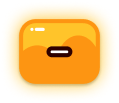
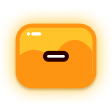
Fixed mint,premint,connect buttons / Added spinner

Changed region(s): [[0.1071, 0.1165, 0.9107, 0.7573], [0.1875, 0.7573, 0.8036, 0.8738], [0.3214, 0.3495, 0.7232, 0.5825]]

diff --git a/src/Pages/MintPage/MintPage.js b/src/Pages/MintPage/MintPage.js
@@ -8,11 +8,17 @@ import xJSON from "../../whitelist/merkleproof-cookieX.json";
 import bg_mint from "../../assets/images/mint_bg_macbook.jpg";
 import meow_profile from "../../assets/images/meowprofile.png";
 import decrementButton from "../../assets/images/minus_normal.png";
+import decrementButtonHover from "../../assets/images/minus_hover.png";
 import incrementButton from "../../assets/images/plus_normal.png";
 import incrementButtonHover from "../../assets/images/plus_hover.png";
 import mintButton from "../../assets/images/mint_normal.png";
+import mintButtonHover from "../../assets/images/mint_hover.png";
+import connectButton from "../../assets/images/connect_normal.png";
+import connectButtonHover from "../../assets/images/connect_hover.png";
+
 import Nav from "../../components/layout/Nav";
 import classes from "../../assets/styles/mintpage.module.css";
+import Spinner from "../../components/Spinner";
 
 const truncate = (input, len) =>
   input.length > len ? `${input.substring(0, len)}...` : input;
@@ -262,15 +268,30 @@ const MintPage = () => {
                   </s.TextDescription>
                   <s.SpacerSmall />
 
-                  <img
-                    src={mintButton}
-                    alt="connectButton"
-                    onClick={(e) => {
-                      e.preventDefault();
-                      dispatch(connect());
-                      getData();
-                    }}
-                  />
+                  <div className={classes.buttonBox}>
+                    <div className={classes.button}>
+                      <img
+                        src={connectButton}
+                        alt="connectButton"
+                        onClick={(e) => {
+                          e.preventDefault();
+                          dispatch(connect());
+                          getData();
+                        }}
+                      />
+                    </div>
+                    <div className={classes.buttonHover}>
+                      <img
+                        src={connectButtonHover}
+                        alt="connectButtonHover"
+                        onClick={(e) => {
+                          e.preventDefault();
+                          dispatch(connect());
+                          getData();
+                        }}
+                      />
+                    </div>
+                  </div>
 
                   {blockchain.errorMsg !== "" ? (
                     <>
@@ -296,15 +317,32 @@ const MintPage = () => {
                   </s.TextDescription>
                   <s.SpacerMedium />
                   <s.Container ai={"center"} jc={"center"} fd={"row"}>
-                    <img
-                      src={decrementButton}
-                      alt="decrementButton"
-                      disabled={claimingNft ? 1 : 0}
-                      onClick={(e) => {
-                        e.preventDefault();
-                        decrementMintAmount();
-                      }}
-                    />
+                    <div className={classes.buttonBox}>
+                      <div className={classes.button}>
+                        <img
+                          src={decrementButton}
+                          alt="decrementButton"
+                          disabled={claimingNft ? 1 : 0}
+                          onClick={(e) => {
+                            e.preventDefault();
+                            decrementMintAmount();
+                          }}
+                        />
+                      </div>
+                      <div className={classes.buttonHover}>
+                        <img
+                          // style={{ height: "87px", width: "74px" }}
+                          src={decrementButtonHover}
+                          alt="decrementButtonHover"
+                          disabled={claimingNft ? 1 : 0}
+                          onClick={(e) => {
+                            e.preventDefault();
+                            decrementMintAmount();
+                          }}
+                        />
+                      </div>
+                    </div>
+
                     <s.SpacerMedium />
                     <s.TextDescriptionMintAmount
                       style={{
@@ -314,8 +352,8 @@ const MintPage = () => {
                       {mintAmount}
                     </s.TextDescriptionMintAmount>
                     <s.SpacerMedium />
-                    <div className={classes.incrementBox}>
-                      <div className={classes.increment}>
+                    <div className={classes.buttonBox}>
+                      <div className={classes.button}>
                         <img
                           // style={{ height: "87px", width: "74px" }}
                           src={incrementButton}
@@ -327,27 +365,48 @@ const MintPage = () => {
                           }}
                         />
                       </div>
-                      <div className={classes.incrementHover}>
+                      <div className={classes.buttonHover}>
                         <img
                           // style={{ height: "87px", width: "74px" }}
                           src={incrementButtonHover}
                           alt="incrementButtonHover"
+                          disabled={claimingNft ? 1 : 0}
+                          onClick={(e) => {
+                            e.preventDefault();
+                            incrementMintAmount();
+                          }}
                         />
                       </div>
                     </div>
                     {!claimingNft ? (
-                      <img
-                        src={mintButton}
-                        alt="mintButton"
-                        disabled={claimingNft ? 1 : 0}
-                        onClick={(e) => {
-                          e.preventDefault();
-                          publicMint();
-                          getData();
-                        }}
-                      />
+                      <div className={classes.buttonBox}>
+                        <div className={classes.button}>
+                          <img
+                            src={mintButton}
+                            alt="mintButton"
+                            disabled={claimingNft ? 1 : 0}
+                            onClick={(e) => {
+                              e.preventDefault();
+                              publicMint();
+                              getData();
+                            }}
+                          />
+                        </div>
+                        <div className={classes.buttonHover}>
+                          <img
+                            src={mintButtonHover}
+                            alt="mintButtonHover"
+                            disabled={claimingNft ? 1 : 0}
+                            onClick={(e) => {
+                              e.preventDefault();
+                              publicMint();
+                              getData();
+                            }}
+                          />
+                        </div>
+                      </div>
                     ) : (
-                      "BUSY"
+                      <Spinner />
                     )}
                   </s.Container>
                   <s.SpacerSmall />

diff --git a/src/assets/styles/spinner.css b/src/assets/styles/spinner.css
@@ -1,0 +1,85 @@
+.lds-default {
+  display: inline-block;
+  position: relative;
+  width: 80px;
+  height: 80px;
+}
+.lds-default div {
+  position: absolute;
+  width: 6px;
+  height: 6px;
+  background: white;
+  border-radius: 50%;
+  animation: lds-default 1.2s linear infinite;
+}
+.lds-default div:nth-child(1) {
+  animation-delay: 0s;
+  top: 37px;
+  left: 66px;
+}
+.lds-default div:nth-child(2) {
+  animation-delay: -0.1s;
+  top: 22px;
+  left: 62px;
+}
+.lds-default div:nth-child(3) {
+  animation-delay: -0.2s;
+  top: 11px;
+  left: 52px;
+}
+.lds-default div:nth-child(4) {
+  animation-delay: -0.3s;
+  top: 7px;
+  left: 37px;
+}
+.lds-default div:nth-child(5) {
+  animation-delay: -0.4s;
+  top: 11px;
+  left: 22px;
+}
+.lds-default div:nth-child(6) {
+  animation-delay: -0.5s;
+  top: 22px;
+  left: 11px;
+}
+.lds-default div:nth-child(7) {
+  animation-delay: -0.6s;
+  top: 37px;
+  left: 7px;
+}
+.lds-default div:nth-child(8) {
+  animation-delay: -0.7s;
+  top: 52px;
+  left: 11px;
+}
+.lds-default div:nth-child(9) {
+  animation-delay: -0.8s;
+  top: 62px;
+  left: 22px;
+}
+.lds-default div:nth-child(10) {
+  animation-delay: -0.9s;
+  top: 66px;
+  left: 37px;
+}
+.lds-default div:nth-child(11) {
+  animation-delay: -1s;
+  top: 62px;
+  left: 52px;
+}
+.lds-default div:nth-child(12) {
+  animation-delay: -1.1s;
+  top: 52px;
+  left: 62px;
+}
+@keyframes lds-default {
+  0%,
+  20%,
+  80%,
+  100% {
+    transform: scale(1);
+  }
+  50% {
+    transform: scale(1.5);
+  }
+}

diff --git a/src/components/Spinner.js b/src/components/Spinner.js
@@ -1,0 +1,21 @@
+import "../assets/styles/spinner.css";
+const Spinner = () => {
+  return (
+    <div class="lds-default">
+      <div></div>
+      <div></div>
+      <div></div>
+      <div></div>
+      <div></div>
+      <div></div>
+      <div></div>
+      <div></div>
+      <div></div>
+      <div></div>
+      <div></div>
+      <div></div>
+    </div>
+  );
+};
+
+export default Spinner;

diff --git a/src/assets/styles/mintpage.module.css b/src/assets/styles/mintpage.module.css
@@ -1,9 +1,9 @@
-.incrementBox {
+.buttonBox {
   position: relative;
   float: left;
 }
 
-.incrementBox .incrementHover {
+.buttonBox .buttonHover {
   position: absolute;
   left: 0;
   top: 0;
@@ -11,10 +11,10 @@
   transition: all 1s ease;
 }
 
-.incrementBox:hover .incrementHover {
+.buttonBox:hover .buttonHover {
   opacity: 1;
   transition: all 1s ease;
 }
 
-.increment {
+.button {
 }
